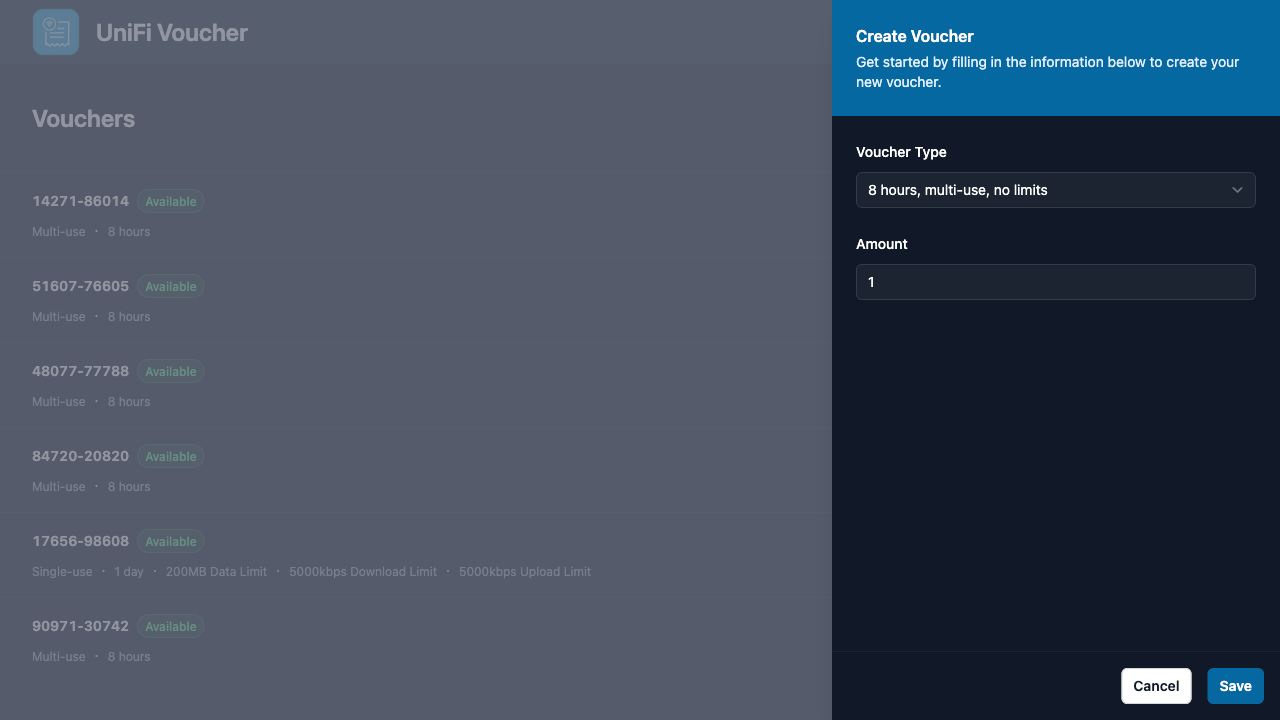
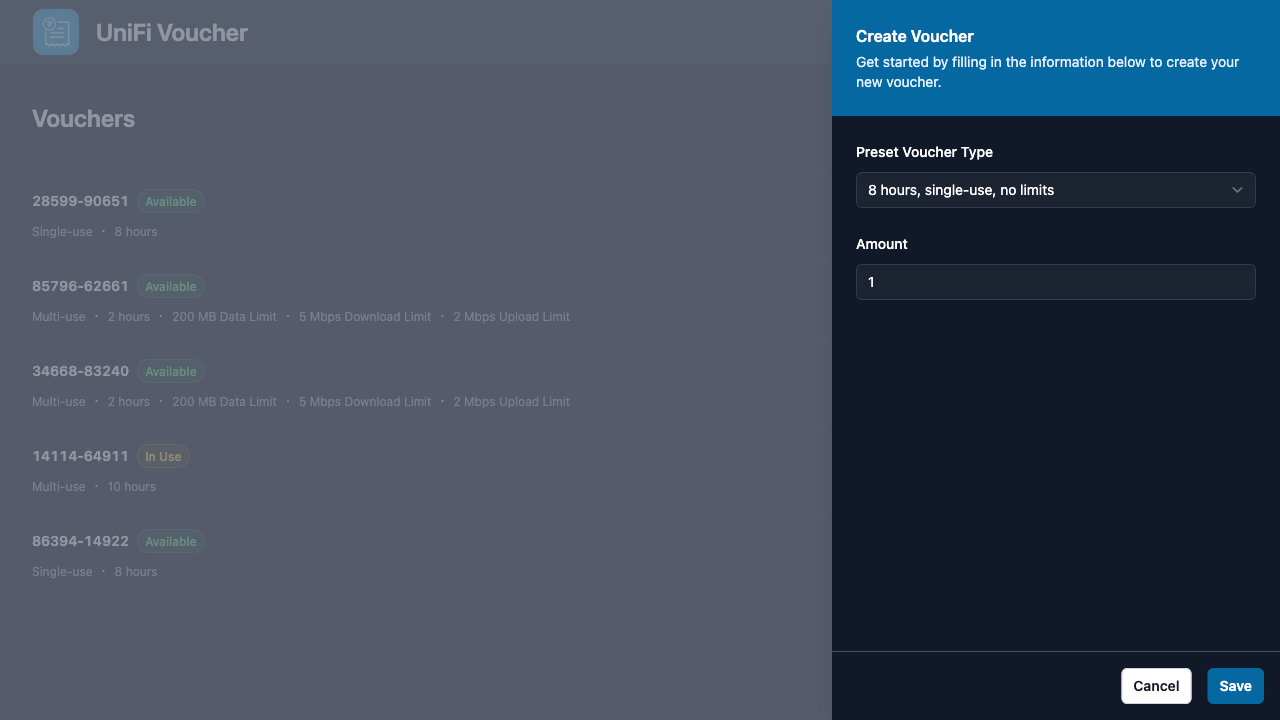
Implemented guests cache. Implemented guests function within unifi.js. Updated app screenshots. Updated manifest.json. Added details.ejs component. Implemented voucher detail slide-over. Updated cache.js logic to fetch guests. Updated README.md. Implemented voucher detail component route.

diff --git a/server.js b/server.js
@@ -376,12 +376,21 @@ if(webService) {
                 res.cookie('flashMessage', JSON.stringify({type: 'error', message: e}), {httpOnly: true, expires: new Date(Date.now() + 24 * 60 * 60 * 1000)}).redirect(302, `${req.headers['x-ingress-path'] ? req.headers['x-ingress-path'] : ''}/vouchers`);
             });
 
-            if(vouchers) {
+            log.info('[Cache] Requesting UniFi Guests...');
+
+            const guests = await unifi.guests().catch((e) => {
+                log.error('[Cache] Error requesting guests!');
+                res.cookie('flashMessage', JSON.stringify({type: 'error', message: e}), {httpOnly: true, expires: new Date(Date.now() + 24 * 60 * 60 * 1000)}).redirect(302, `${req.headers['x-ingress-path'] ? req.headers['x-ingress-path'] : ''}/vouchers`);
+            });
+
+            if(vouchers && guests) {
                 cache.vouchers = vouchers;
+                cache.guests = guests;
                 cache.updated = new Date().getTime();
                 log.info(`[Cache] Saved ${vouchers.length} voucher(s)`);
+                log.info(`[Cache] Saved ${guests.length} guest(s)`);
 
-                res.cookie('flashMessage', JSON.stringify({type: 'info', message: 'Synced Vouchers!'}), {httpOnly: true, expires: new Date(Date.now() + 24 * 60 * 60 * 1000)}).redirect(302, `${req.headers['x-ingress-path'] ? req.headers['x-ingress-path'] : ''}/vouchers`);
+                res.cookie('flashMessage', JSON.stringify({type: 'info', message: 'Synced Vouchers & Guests!'}), {httpOnly: true, expires: new Date(Date.now() + 24 * 60 * 60 * 1000)}).redirect(302, `${req.headers['x-ingress-path'] ? req.headers['x-ingress-path'] : ''}/vouchers`);
             }
 
             return;
@@ -400,6 +409,29 @@ if(webService) {
             vouchers: cache.vouchers,
             updated: cache.updated
         });
+    });
+    app.get('/voucher/:id', [authorization.web], async (req, res) => {
+        const voucher = cache.vouchers.find((e) => {
+            return e._id === req.params.id;
+        });
+        const guests = cache.guests.filter((e) => {
+            return e.voucher_id === req.params.id;
+        });
+
+        if(voucher) {
+            res.render('components/details', {
+                baseUrl: req.headers['x-ingress-path'] ? req.headers['x-ingress-path'] : '',
+                timeConvert: time,
+                bytesConvert: bytes,
+                voucher,
+                guests
+            });
+        } else {
+            res.status(404);
+            res.render('404', {
+                baseUrl: req.headers['x-ingress-path'] ? req.headers['x-ingress-path'] : ''
+            });
+        }
     });
 }
 

diff --git a/modules/unifi.js b/modules/unifi.js
@@ -216,6 +216,52 @@ const unifiModule = {
                 reject(e);
             });
         });
+    },
+
+    /**
+     * Returns a list with all UniFi Guests
+     *
+     * @param retry
+     * @return {Promise<unknown>}
+     */
+    guests: (retry = true) => {
+        return new Promise((resolve, reject) => {
+            startSession().then(() => {
+                controller.getGuests().then((guests) => {
+                    log.info(`[UniFi] Found ${guests.length} guest(s)`);
+                    resolve(guests);
+                }).catch((e) => {
+                    log.error('[UniFi] Error while getting guests!');
+                    log.debug(e);
+
+                    // Check if token expired, if true attempt login then try again
+                    if (e.response) {
+                        if(e.response.status === 401 && retry) {
+                            log.info('[UniFi] Attempting re-authentication & retry...');
+
+                            controller = null;
+                            unifiModule.guests(false).then((e) => {
+                                resolve(e);
+                            }).catch((e) => {
+                                reject(e);
+                            });
+                        } else {
+                            // Something else went wrong lets clear the current controller so a user can retry
+                            log.error(`[UniFi] Unexpected ${JSON.stringify({status: e.response.status, retry})} cleanup controller...`);
+                            controller = null;
+                            reject('[UniFi] Error while getting guests!');
+                        }
+                    } else {
+                        // Something else went wrong lets clear the current controller so a user can retry
+                        log.error('[UniFi] Unexpected cleanup controller...');
+                        controller = null;
+                        reject('[UniFi] Error while getting guests!');
+                    }
+                });
+            }).catch((e) => {
+                reject(e);
+            });
+        });
     }
 }
 

diff --git a/utils/cache.js b/utils/cache.js
@@ -30,6 +30,18 @@ module.exports = {
                 log.info(`[Cache] Saved ${vouchers.length} voucher(s)`);
             }
 
+            log.info('[Cache] Requesting UniFi Guests...');
+
+            const guests = await unifi.guests().catch(() => {
+                log.error('[Cache] Error requesting guests!');
+            });
+
+            if(guests) {
+                cache.guests = guests;
+                cache.updated = new Date().getTime();
+                log.info(`[Cache] Saved ${guests.length} guest(s)`);
+            }
+
             resolve();
         });
     }

diff --git a/modules/cache.js b/modules/cache.js
@@ -1,9 +1,10 @@
 /**
  * Internal application cache
  *
- * @type {{vouchers: *[], updated: number}}
+ * @type {{guests: *[], vouchers: *[], updated: number}}
  */
 module.exports = {
     vouchers: [],
+    guests: [],
     updated: 0
 };

diff --git a/README.md b/README.md
@@ -4,7 +4,7 @@ A small UniFi Voucher Site for simple voucher creation
 
 [![Image Size](https://img.shields.io/docker/image-size/glenndehaan/unifi-voucher-site)](https://hub.docker.com/r/glenndehaan/unifi-voucher-site)
 
-![Vouchers Overview - Desktop](https://github.com/glenndehaan/unifi-voucher-site/assets/7496187/2bc18cce-afb2-41e9-a34c-d923fab9f6e4)
+![Vouchers Overview - Desktop](https://github.com/glenndehaan/unifi-voucher-site/assets/7496187/b0d5c208-2ac7-444e-977d-31287ff19e8b)
 
 ## Structure
 
@@ -233,22 +233,28 @@ The application will automatically format the voucher for 80mm paper width, ensu
 ## Screenshots
 
 ### Login (Desktop)
-![Login - Desktop](https://github.com/glenndehaan/unifi-voucher-site/assets/7496187/89289053-50e0-4169-9916-2bce7191bf49)
+![Login - Desktop](https://github.com/glenndehaan/unifi-voucher-site/assets/7496187/5f89ecbd-7e03-4fd0-ae7d-279d16321384)
 
 ### Vouchers Overview (Desktop)
-![Vouchers Overview - Desktop](https://github.com/glenndehaan/unifi-voucher-site/assets/7496187/2bc18cce-afb2-41e9-a34c-d923fab9f6e4)
+![Vouchers Overview - Desktop](https://github.com/glenndehaan/unifi-voucher-site/assets/7496187/b0d5c208-2ac7-444e-977d-31287ff19e8b)
 
 ### Create Voucher (Desktop)
-![Create Voucher - Desktop](https://github.com/glenndehaan/unifi-voucher-site/assets/7496187/32803e88-c3cb-4708-914c-7e7184eae1c6)
+![Create Voucher - Desktop](https://github.com/glenndehaan/unifi-voucher-site/assets/7496187/72f8dcf0-6642-4c89-849f-21cfbcc488ab)
+
+### Voucher Details (Desktop)
+![Voucher Details - Desktop](https://github.com/glenndehaan/unifi-voucher-site/assets/7496187/b84ad74c-afaa-4bf1-8bc1-398fb0450ff1)
 
 ### Login (Mobile)
-![Login - Mobile](https://github.com/glenndehaan/unifi-voucher-site/assets/7496187/c236bb65-1ef5-41dd-976f-8f72a98416a3)
+![Login - Mobile](https://github.com/glenndehaan/unifi-voucher-site/assets/7496187/d74bc487-5b80-4bb6-8617-da870cdf4cec)
 
 ### Vouchers Overview (Mobile)
-![Voucher Overview - Mobile](https://github.com/glenndehaan/unifi-voucher-site/assets/7496187/68656bad-b4a2-495d-baae-61a64ed52e72)
+![Voucher Overview - Mobile](https://github.com/glenndehaan/unifi-voucher-site/assets/7496187/c986e03d-5edf-4b04-8903-0b42ff1c4fc9)
 
 ### Create Voucher (Mobile)
-![Create Voucher - Mobile](https://github.com/glenndehaan/unifi-voucher-site/assets/7496187/b393c3d9-1e87-40e7-8998-9607872b161f)
+![Create Voucher - Mobile](https://github.com/glenndehaan/unifi-voucher-site/assets/7496187/f1cef8c8-a7a5-4238-8a2e-461835375f29)
+
+### Voucher Details (Mobile)
+![Voucher Details - Mobile](https://github.com/glenndehaan/unifi-voucher-site/assets/7496187/28b8f97b-8042-4e6d-b1dc-8386860a1e39)
 
 ## License
 
